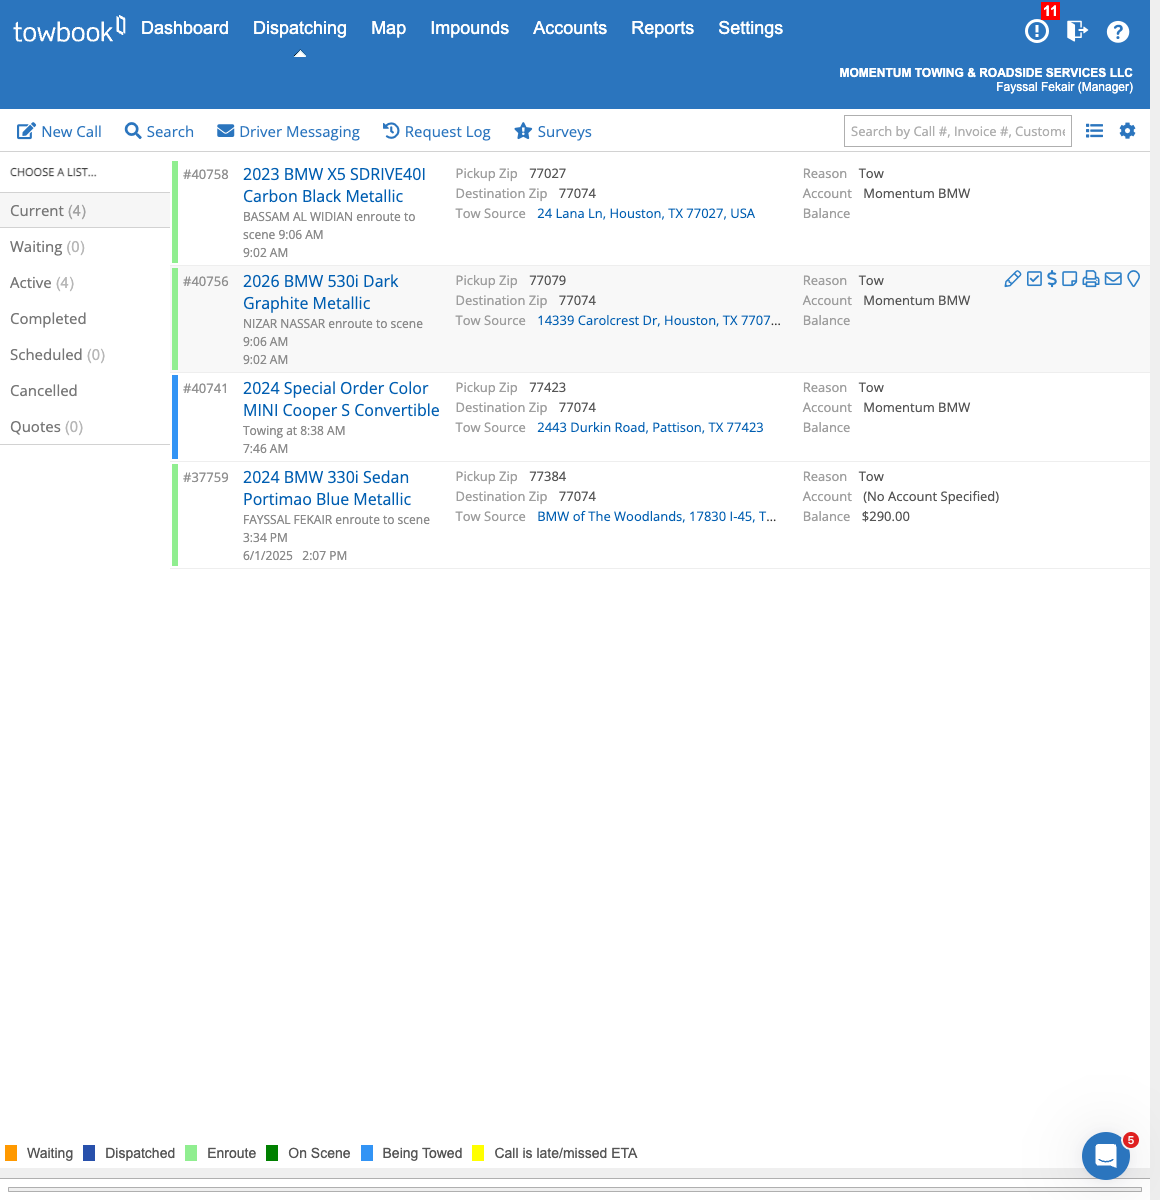
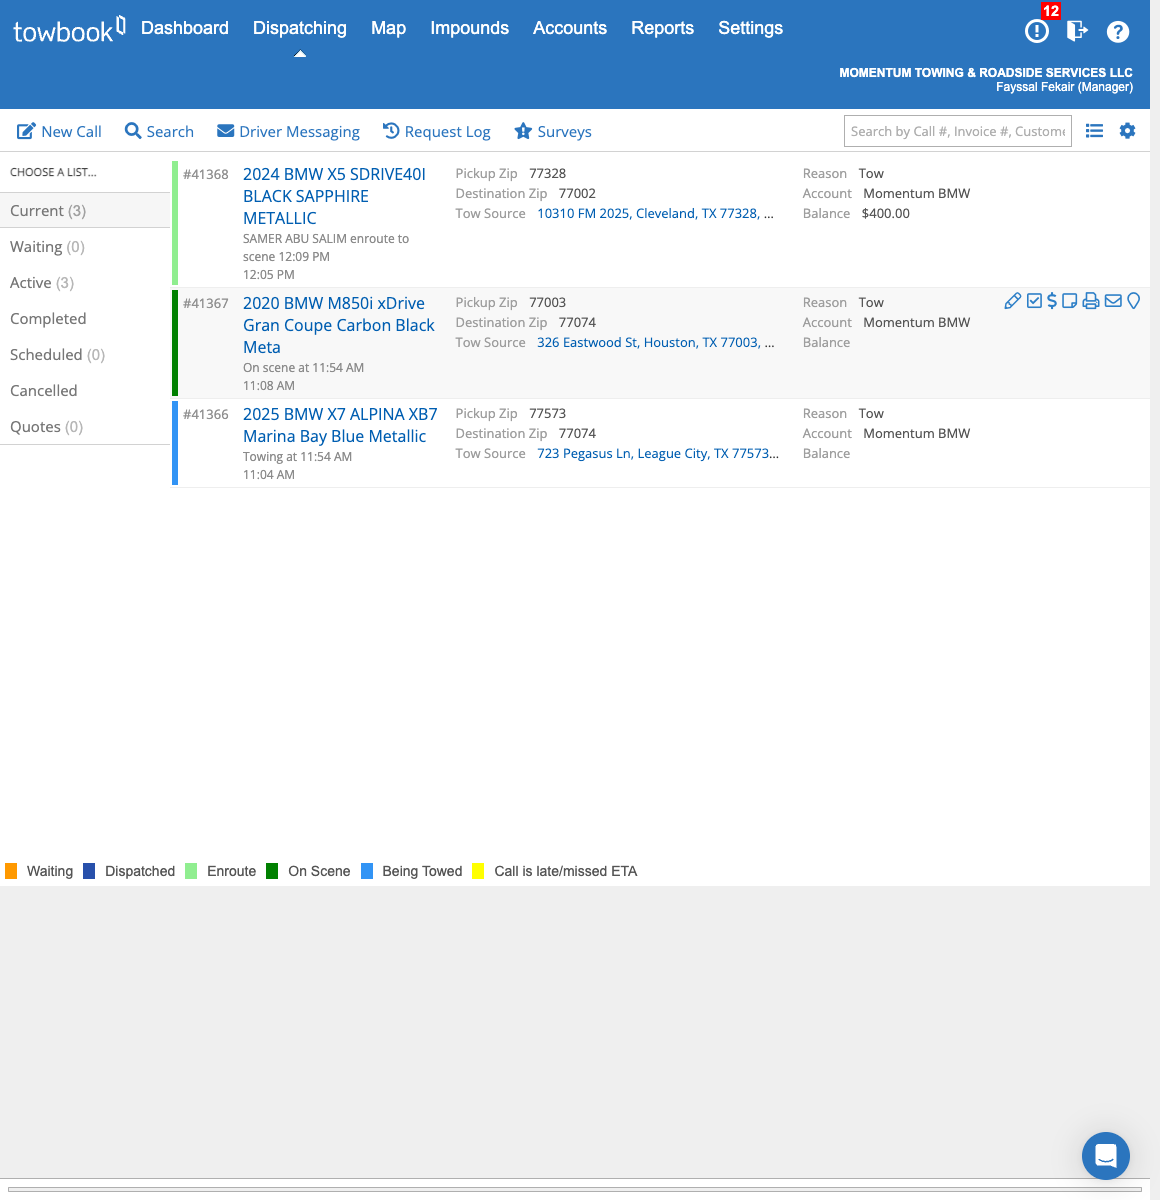
chore: update code

diff --git a/web-control/public/index.html b/web-control/public/index.html
@@ -962,7 +962,7 @@
         }
 
         // Dispatch job UI function (opens modal and shows detailed feedback)
-        async function dispatchJob() {
+        async function dispatchJob(forceCreate = false) {
             const poInput = document.getElementById('poNumberInput');
             const po = poInput.value && poInput.value.trim();
             if (!po) {
@@ -978,7 +978,7 @@
                 const response = await fetch('/api/dispatch', {
                     method: 'POST',
                     headers: { 'Content-Type': 'application/json' },
-                    body: JSON.stringify({ po })
+                    body: JSON.stringify({ po, forceCreate })
                 });
 
                 let result;
@@ -992,10 +992,15 @@
 
                 if (result.success) {
                     setDispatchResult(true, result.message || `Dispatched PO ${po}`, JSON.stringify(result, null, 2));
-                    // clear input on success
                     poInput.value = '';
+                } else if (result.jobExists) {
+                    // If job exists, ask user if they want to force create it
+                    if (confirm(result.message + '\nDo you want to create a new job anyway?')) {
+                        dispatchJob(true); // Re-run with forceCreate = true
+                    } else {
+                        setDispatchResult(false, 'Dispatch cancelled by user.', JSON.stringify(result, null, 2));
+                    }
                 } else {
-                    // result indicates failure but may contain details
                     const msg = result.message || result.error || 'Dispatch failed';
                     setDispatchResult(false, msg, JSON.stringify(result, null, 2));
                 }

diff --git a/web-control/towbook-dispatch.js b/web-control/towbook-dispatch.js
@@ -165,7 +165,7 @@ async function dispatchTowbookInternal(jsonData, additionalArgument) {
  * @param {string|number} poNumber - The PO number to dispatch
  * @returns {Object} - Result object with success status and details
  */
-async function dispatchToTowbook(poNumber) {
+async function dispatchToTowbook(poNumber, forceCreate = false) {
   try {
     console.log(`Starting dispatch process for PO ${poNumber}...`);
     
@@ -216,10 +216,11 @@ async function dispatchToTowbook(poNumber) {
     console.log(`Step 4: Checking if PO ${poNumber} already exists in Towbook...`);
     const existingJobs = await checkpoNumber(poNumber);
     
-    if (existingJobs && existingJobs.length > 0) {
+    if (!forceCreate && existingJobs && existingJobs.length > 0) {
       return {
         success: false,
-        message: `Job with PO ${poNumber} already exists in Towbook`,
+        message: `Job with PO ${poNumber} already exists in Towbook.`,
+        jobExists: true, // Flag to indicate job exists
         timestamp: new Date().toISOString(),
         poNumber: poNumber,
         existingJobs: existingJobs.length

diff --git a/web-control/server.js b/web-control/server.js
@@ -506,13 +506,13 @@ app.get('/api/status', async (req, res) => {
 
 app.post('/api/dispatch', express.json(), async (req, res) => {
     try {
-        const { po } = req.body;
+        const { po, forceCreate } = req.body; // Added forceCreate
         if (!po) {
             return res.status(400).json({ success: false, message: 'Missing PO number' });
         }
 
-        console.log(`Received dispatch request for PO: ${po}`);
-        const result = await dispatchToTowbook(po.toString());
+        console.log(`Received dispatch request for PO: ${po}, Force Create: ${forceCreate}`);
+        const result = await dispatchToTowbook(po.toString(), forceCreate);
         // dispatchToTowbook returns a detailed result object (success/message/etc.)
         res.json(result);
     } catch (err) {
